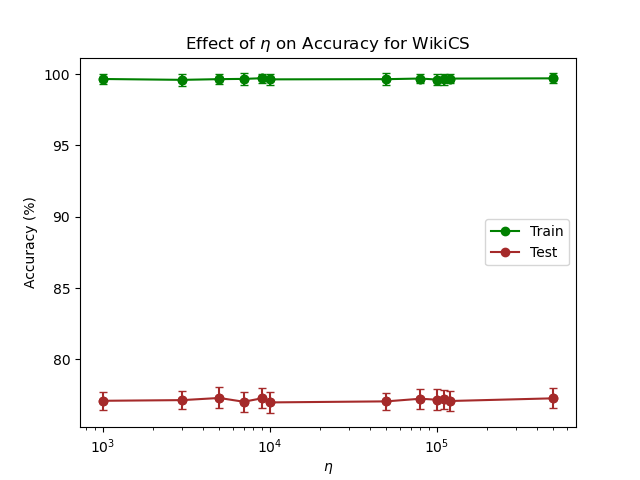
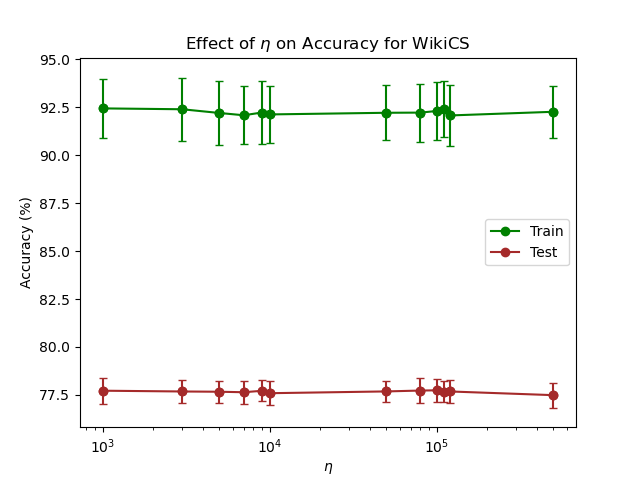
ogb-collab successfully running

diff --git a/zz_eta_vs_acc.py b/zz_eta_vs_acc.py
@@ -1,0 +1,189 @@
+import numpy as np
+import matplotlib.pyplot as plt
+import csv
+import argparse
+import os
+
+
+
+def read_csv(filename, matrix=False):
+    data = []
+    with open(filename, 'r') as csvfile:
+        reader = csv.reader(csvfile)
+
+        if not matrix:
+            for row in reader:
+                data.append(float(row[0]))
+        else:
+            for row in reader:
+                data.append(np.float_(row))
+            data = np.array(data)
+
+    return data
+
+
+
+
+def combine_plot_line_with_error(data1, data2, datasets, folders, savefilename, exp='eta'):
+    
+    x1 = [1e3, 3e3, 5e3, 7e3, 9e3, 1e4, 5e4, 8e4, 10e4, 11e4, 12e4, 5e5] #WikiCS
+    # x1 = [1e4, 5e4, 7e4, 1e5, 5e5, 7e5] #WikiCS
+    x2 = [1e3, 5e3, 1e4, 2e4, 5e4, 10e4, 15e4, 5e5] # Pubmed
+    
+    # WikiCS
+    mean_test1 = data1[:,2]
+    std_test1 = data1[:,3]
+
+    #Pubmed
+    mean_test2 = data2[:,2]
+    std_test2 = data2[:,3]
+
+    plt.figure()
+    # WikiCS
+    plt.plot(x1, mean_test1, marker='o', color='g', label="WikiCS")
+    plt.errorbar(x1, mean_test1, yerr = std_test1, fmt ='o', color='g', capsize=3)
+
+    # Pubmed
+    plt.plot(x2, mean_test2, marker='o', color='brown', label="PubMed")
+    plt.errorbar(x2, mean_test2, yerr = std_test2, fmt ='o', color='brown', capsize=3)
+
+    # Rescale x-axis
+    ax = plt.gca()
+    ax.set_xscale('log')
+    # plt.ylim(82, 96)
+    plt.ylim(np.min(mean_test1)-np.max(std_test1)-1, np.max(mean_test2)+np.max(std_test2)+1)
+    plt.title(f'Effect of $\eta$ on Accuracy for {datasets[0]} and {datasets[1]}')
+    plt.xlabel(f'$\eta$')
+    plt.ylabel('Accuracy (%)')
+    plt.legend()
+
+    plt.savefig(savefilename)
+
+
+def combine_plot_line_with_error_same(data, datasets, folders, savefilename, exp='eta'):
+    
+    wiki = [1e3, 3e3, 5e3, 7e3, 9e3, 1e4, 5e4, 8e4, 10e4, 11e4, 12e4, 5e5] #WikiCS
+    pub = [1e3, 5e3, 1e4, 2e4, 5e4, 10e4, 15e4, 5e5] # Pubmed
+
+    data1,data2,data3,data4 = data
+    
+    # WikiCS: no-sign
+    mean_test1 = data1[:,2]
+    std_test1 = data1[:,3]
+    # WikiCS: sign
+    mean_test2 = data2[:,2]
+    std_test2 = data2[:,3]
+
+    #Pubmed: no-sign
+    mean_test3 = data3[:,2]
+    std_test3 = data3[:,3]
+    #Pubmed: sign
+    mean_test4 = data4[:,2]
+    std_test4 = data4[:,3]
+
+    # Create a figure and subplots
+    fig, ((ax1, ax2), (ax3, ax4)) = plt.subplots(2, 2 , figsize=(10, 10))
+
+    # Plot 1 and 2
+    # WikiCS: no-sign
+    ax1.plot(wiki, mean_test1, marker='o', color='g', label="WikiCS NO sign flip")
+    ax1.errorbar(wiki, mean_test1, yerr = std_test1, fmt ='o', color='g', capsize=3)
+    ax1.set_ylabel('Accuracy (%)')
+    ax1.set_xlabel(f'$\eta$')
+    # WikiCS: no-sign
+    ax2.plot(wiki, mean_test2, marker='o', color='r', label="WikiCS sign flip")
+    ax2.errorbar(wiki, mean_test2, yerr = std_test2, fmt ='o', color='r', capsize=3)
+    ax2.set_ylabel('Accuracy (%)')
+    ax2.set_xlabel(f'$\eta$')
+    
+
+    # Plot 3 and 4
+    # Pubmed: no-sign
+    ax3.plot(pub, mean_test3, marker='o', color='b', label="PubMed NO sign flip")
+    ax3.errorbar(pub, mean_test3, yerr = std_test3, fmt ='o', color='b', capsize=3)
+    ax3.set_ylabel('Accuracy (%)')
+    ax3.set_xlabel(f'$\eta$')
+    # Pubmed: no-sign
+    ax4.plot(pub, mean_test4, marker='o', color='k', label="PubMed sign flip")
+    ax4.errorbar(pub, mean_test4, yerr = std_test4, fmt ='o', color='k', capsize=3)
+    ax4.set_ylabel('Accuracy (%)')
+    ax4.set_xlabel(f'$\eta$')
+
+    ax1.set_xscale('log')
+    ax2.set_xscale('log')
+    ax3.set_xscale('log')
+    ax4.set_xscale('log')
+
+    ax1.legend()
+    ax2.legend()
+    ax3.legend()
+    ax4.legend()
+
+    wiki_m = np.concatenate([mean_test1,mean_test2])
+    wiki_s = np.concatenate([std_test1,std_test2])
+
+    pub_m = np.concatenate([mean_test3,mean_test4])
+    pub_s = np.concatenate([std_test3,std_test4])
+
+    ax1.set_ylim(np.min(wiki_m)-np.max(wiki_s)-1, np.max(wiki_m)+np.max(wiki_s)+1)
+    ax2.set_ylim(np.min(wiki_m)-np.max(wiki_s)-1, np.max(wiki_m)+np.max(wiki_s)+1)
+    ax3.set_ylim(np.min(pub_m)-np.max(pub_s)-1, np.max(pub_m)+np.max(pub_s)+1)
+    ax4.set_ylim(np.min(pub_m)-np.max(pub_s)-1, np.max(pub_m)+np.max(pub_s)+1)
+
+    # ax1.set_ylim(np.min(mean_test1)-np.max(std_test1)-1, np.max(mean_test1)+np.max(std_test1)+1)
+    # ax2.set_ylim(np.min(mean_test2)-np.max(std_test2)-1, np.max(mean_test2)+np.max(std_test2)+1)
+    # ax3.set_ylim(np.min(mean_test3)-np.max(std_test3)-1, np.max(mean_test3)+np.max(std_test3)+1)
+    # ax4.set_ylim(np.min(mean_test4)-np.max(std_test4)-1, np.max(mean_test4)+np.max(std_test4)+1)
+
+    fig.suptitle(f'Effect of $\eta$ on Accuracy for {datasets[0]} and {datasets[1]} datasets')
+
+    # Adjust layout
+    plt.tight_layout()
+
+    # save the final image
+    plt.savefig(savefilename)
+
+
+
+def create_plot(args):
+    
+    folder1, folder2 = args.folders
+    name1, name2, name3, name4 = args.best_test_filenames
+    filename1 =os.path.join(folder1,name1)
+    filename2 =os.path.join(folder1,name2)
+    filename3 =os.path.join(folder2,name3)
+    filename4 =os.path.join(folder2,name4)
+    data1 = read_csv(filename1,matrix=True)
+    data2 = read_csv(filename2,matrix=True)
+    data3 = read_csv(filename3,matrix=True)
+    data4 = read_csv(filename4,matrix=True)
+
+    data = data1,data2,data3,data4
+
+    # combine_plot_line_with_error(data1, data2, args.datasets, args.folders, args.savefilename, args.experiment)
+    combine_plot_line_with_error_same(data, args.datasets, args.folders, args.savefilename, args.experiment)
+    
+
+if __name__ == '__main__':
+
+    # Define a custom argument type for a list of strings
+    def list_of_strings(arg):
+        return arg.split(',')
+
+    parser = argparse.ArgumentParser()
+    parser.add_argument('--folders', type=list_of_strings,
+                        help="Folders housing the files we are needing.")
+    parser.add_argument('--best_test_filenames', type=list_of_strings,
+                        help="Name of files containing metrics for different simulations on\
+                        the test partition of the datasets.")
+    parser.add_argument('--datasets', type=list_of_strings, help="Name of datasets.")
+    parser.add_argument('--exp', dest='experiment', default='eta',
+                        help="Name of experiment (can be eta or walk_length).")
+    parser.add_argument('--savefilename', default='zz_eta_vs_accuracy.png',
+                        help="Filename of graph plotted.")
+                        
+    args = parser.parse_args()
+
+    create_plot(args)
+    print("Plot saved successfully!")
+

diff --git a/data/COLLAB.py b/data/COLLAB.py
@@ -10,29 +10,46 @@ import numpy as np
 
 from train.NAPE_modules.trans_pos_encode import TT_Pos_Encode
 
-def positional_encoding(g, pos_enc_dim):
+root = '/dcs/large/u2034358/'
+
+def positional_encoding(g, pos_enc_dim, dataset_name, use_existing):
     """
         Graph positional encoding v/ Laplacian eigenvectors
     """
+    if not use_existing:
+        # Laplacian
+        # A = g.adjacency_matrix_scipy(return_edge_ids=False).astype(float)
+        A = g.adj().float()
+        N = sp.diags(dgl.backend.asnumpy(g.in_degrees()).clip(1) ** -0.5, dtype=float)
+        # L = sp.eye(g.number_of_nodes()) - N * A * N
+        L = sp.eye(g.number_of_nodes()) - N.multiply(A).multiply(N)
 
-    # Laplacian
-    # A = g.adjacency_matrix_scipy(return_edge_ids=False).astype(float)
-    A = g.adj().float()
-    N = sp.diags(dgl.backend.asnumpy(g.in_degrees()).clip(1) ** -0.5, dtype=float)
-    # L = sp.eye(g.number_of_nodes()) - N * A * N
-    L = sp.eye(g.number_of_nodes()) - N.multiply(A).multiply(N)
+        # # Eigenvectors with numpy
+        # EigVal, EigVec = np.linalg.eig(L.toarray())
+        # idx = EigVal.argsort() # increasing order
+        # EigVal, EigVec = EigVal[idx], np.real(EigVec[:,idx])
+        # g.ndata['pos_enc'] = torch.from_numpy(np.abs(EigVec[:,1:pos_enc_dim+1])).float()
 
-    # # Eigenvectors with numpy
-    # EigVal, EigVec = np.linalg.eig(L.toarray())
-    # idx = EigVal.argsort() # increasing order
-    # EigVal, EigVec = EigVal[idx], np.real(EigVec[:,idx])
-    # g.ndata['pos_enc'] = torch.from_numpy(np.abs(EigVec[:,1:pos_enc_dim+1])).float()
+        # Eigenvectors with scipy
+        #EigVal, EigVec = sp.linalg.eigs(L, k=pos_enc_dim+1, which='SR')
+        EigVal, EigVec = sp.linalg.eigs(L, k=pos_enc_dim+1, which='SR', tol=1e-2)
+        EigVec = EigVec[:, EigVal.argsort()] # increasing order
+        PE = np.real(EigVec[:,1:pos_enc_dim+1])
+        
+        # Saved the position encoding
+        with open(root+f'{dataset_name}_lap-PE.npy', 'wb') as f:
+            np.save(f, PE)
 
-    # Eigenvectors with scipy
-    #EigVal, EigVec = sp.linalg.eigs(L, k=pos_enc_dim+1, which='SR')
-    EigVal, EigVec = sp.linalg.eigs(L, k=pos_enc_dim+1, which='SR', tol=1e-2)
-    EigVec = EigVec[:, EigVal.argsort()] # increasing order
-    g.ndata['pos_enc'] = torch.from_numpy(np.real(EigVec[:,1:pos_enc_dim+1])).float()
+        print("Laplacian Position encoding saved!")
+
+    else:
+        # Load saved position encoding
+        with open(root+f'{dataset_name}_lap-PE.npy', 'rb') as f:
+            PE = np.load(f)
+
+        print("Successfully loaded the Laplacian Position encoding!")
+    
+    g.ndata['pos_enc'] = torch.from_numpy(PE).float()
 
     return g
 
@@ -48,7 +65,7 @@ def save_edgelist_with_weights(graph, filename):
     dst_list = dst.numpy().tolist()
     weights_list = weights.numpy().tolist()
 
-    with open('/dcs/large/u2034358/'+filename, "w") as file:
+    with open(root+filename, "w") as file:
         for i in range(len(src_list)):
             file.write(f"{src_list[i]} {dst_list[i]} {weights_list[i][0]}\n")
 
@@ -61,7 +78,7 @@ def save_dgl_edgelist(g, filename):
     filename: The path to the output file.
   """
 
-  with open('/dcs/large/u2034358/'+filename, "w") as f:
+  with open(root+filename, "w") as f:
       src, dst = g.edges()
       src = src.numpy()
       dst = dst.numpy()
@@ -99,11 +116,11 @@ class COLLABDataset(Dataset):
         print("[I] Finished loading.")
         print("[I] Data load time: {:.4f}s".format(time.time()-start))
 
-    def _add_positional_encodings(self, pos_enc_dim, hidden_size=None, pos_enc_name='', use_NAPE=True, scale=110000.0, save_adj=False):
+    def _add_positional_encodings(self, pos_enc_dim, hidden_size=None, pos_enc_name='', use_NAPE=True, scale=110000.0, save_adj=False, use_existing=False):
 
         # Graph positional encoding v/ Laplacian eigenvectors
         if not use_NAPE:
-            self.graph = positional_encoding(self.graph, pos_enc_dim)
+            self.graph = positional_encoding(self.graph, pos_enc_dim, self.name, use_existing)
 
         # These are the things I added
         if save_adj:

diff --git a/train/train_WikiCS_node_classification.py b/train/train_WikiCS_node_classification.py
@@ -20,19 +20,16 @@ def train_epoch(model, optimizer, device, graph, node_feat, edge_feat, train_mas
 
     try:
         pos_enc = graph.ndata['pos_enc'].to(device)
-        if use_NAPE:
-            logits = model.forward(graph, node_feat, edge_feat, pos_enc)
-        else:
-            sign_flip = torch.rand(pos_enc.size(1)).to(device)
-            sign_flip[sign_flip>=0.5] = 1.0; sign_flip[sign_flip<0.5] = -1.0
-            pos_enc = pos_enc * sign_flip.unsqueeze(0)
-            logits = model.forward(graph, node_feat, edge_feat, pos_enc)
+        # if use_NAPE:
+        #     logits = model.forward(graph, node_feat, edge_feat, pos_enc)
+        # else:
+        sign_flip = torch.rand(pos_enc.size(1)).to(device)
+        sign_flip[sign_flip>=0.5] = 1.0; sign_flip[sign_flip<0.5] = -1.0
+        pos_enc = pos_enc * sign_flip.unsqueeze(0)
+        logits = model.forward(graph, node_feat, edge_feat, pos_enc)
     except:
         logits = model(graph, node_feat, edge_feat)
 
-    print(f"HERE 1: {logits[train_mask].shape}")
-    print(f"HERE 2: {labels[train_mask].shape}")
-    exit()
     loss = model.loss(logits[train_mask], labels[train_mask])
     optimizer.zero_grad()
     loss.backward()

diff --git a/data/WikiCS.py b/data/WikiCS.py
@@ -14,13 +14,15 @@ from train.NAPE_modules.trans_pos_encode import TT_Pos_Encode
 
 import itertools
 
+root = '/dcs/large/u2034358/'
+
 class WikiCSDataset(torch.utils.data.Dataset):
     """
         Wiki-CS Dataset
         Adapted from
         https://github.com/pmernyei/wiki-cs-dataset/
     """
-    def __init__(self, DATASET_NAME='WikiCS', path="data/WikiCS/"):
+    def __init__(self, DATASET_NAME='WikiCS', path=f"{root}data/WikiCS/"):
         self.name = DATASET_NAME
         self.data = json.load(open(os.path.join(path, 'data.json')))
 
@@ -84,7 +86,7 @@ class WikiCSDataset(torch.utils.data.Dataset):
 
         print("[I] Finished loading after {:.4f}s".format(time.time()-t0))
 
-    def _add_positional_encodings(self, pos_enc_dim, hidden_size=None, pos_enc_name='', use_NAPE=True, scale=110000.0, save_adj=False):
+    def _add_positional_encodings(self, pos_enc_dim, hidden_size=None, pos_enc_name='', use_NAPE=True, scale=1000.0, save_adj=False):
 
         # Graph positional encoding v/ Laplacian eigenvectors
         g = self.g

diff --git a/main_COLLAB_edge_classification.py b/main_COLLAB_edge_classification.py
@@ -101,9 +101,14 @@ def train_val_pipeline(MODEL_NAME, dataset, params, net_params, save_file_params
             dataset._add_positional_encodings(net_params['pos_enc_dim'],
                                                 net_params['hidden_dim'],
                                                 net_params['pos_enc_name'],
-                                                net_params['use_NAPE'],float(net_params['scale']))#,
-                                                # save_adj=True)
+                                                net_params['use_NAPE'],float(net_params['scale']),
+                                                # save_adj=True,
+                                                use_existing=False)
             print('Time PE:',time.time()-t0)
+            # if not net_params['use_NAPE']:
+            #     # We enforce this only to get the time taken for the Laplacian to be computed
+            #     print('\nTIME HAS BEEN COMPUTED!')
+            #     exit()
 
     graph = dataset.graph
 

diff --git a/train/NAPE_modules/trans_pos_encode.py b/train/NAPE_modules/trans_pos_encode.py
@@ -7,9 +7,10 @@ import matplotlib.pyplot as plt
 import torch.nn as nn
 import numpy as np
 import torch.nn.functional as F
+from pathlib import Path
 
 from .NAPE import Position_encode
-root = '/dcs/pg20/u2034358/codes/'
+root = f'{Path.home()}/codes/'
 
 class TT_Pos_Encode(nn.Module):
     """
@@ -32,7 +33,7 @@ class TT_Pos_Encode(nn.Module):
         """This would return the saved position encoding"""
         PE = Position_encode(N=N, d=d)
 
-        PE.load_state_dict(torch.load(root+'node2vec/Saved_models/'+f'd={d}_{self.PE_name}'))
+        PE.load_state_dict(torch.load(root+'NAPE-wt-node2vec/Saved_models/'+f'd={d}_{self.PE_name}'))
         PE.eval()
         Z,_,_,_ = PE(test=True)
         err = 0.0001

diff --git a/main_Pubmed_node_classification.py b/main_Pubmed_node_classification.py
@@ -6,7 +6,7 @@
 """
     IMPORTING LIBS
 """
-import dgl
+# import dgl
 
 import numpy as np
 import os
